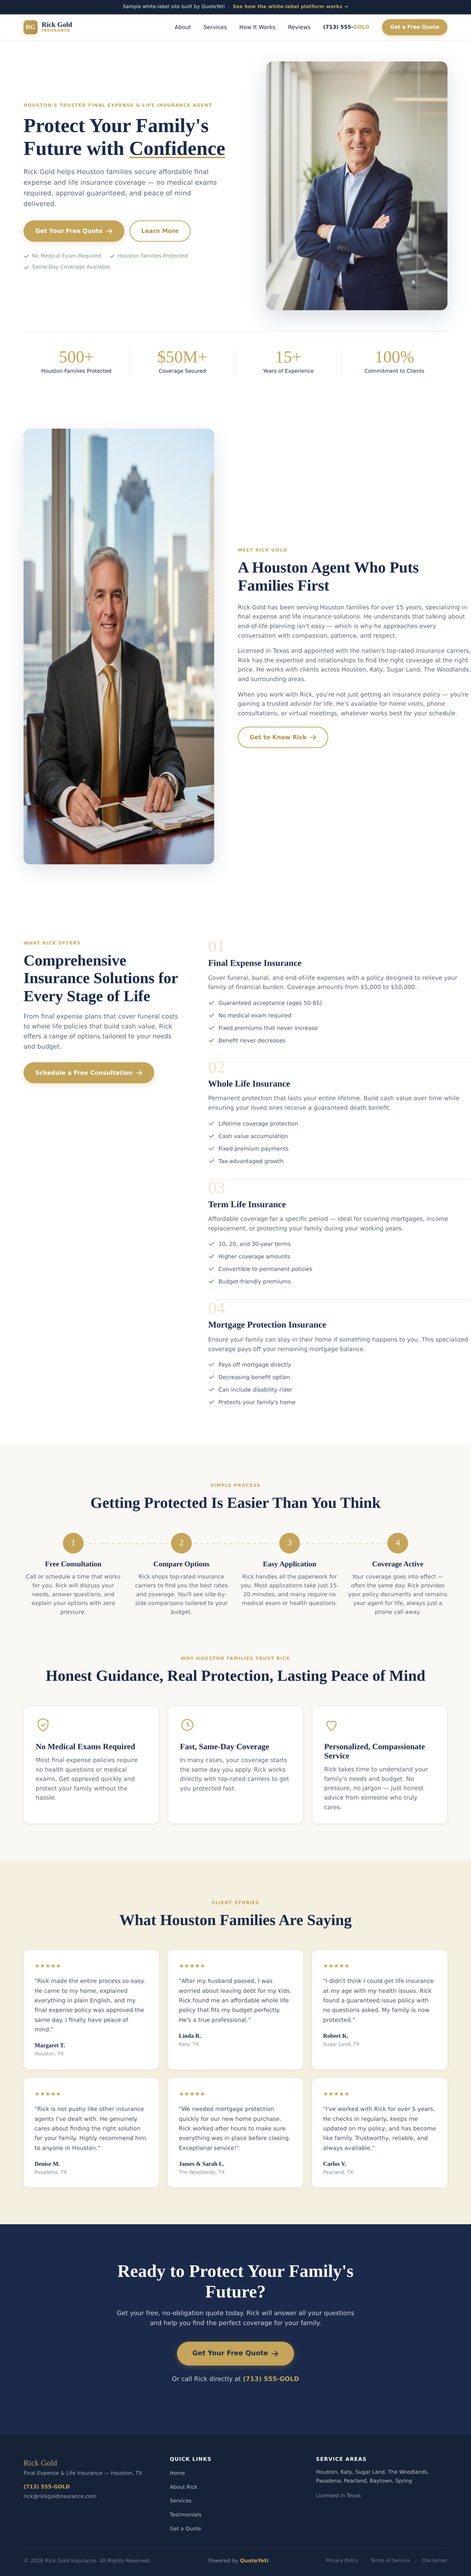
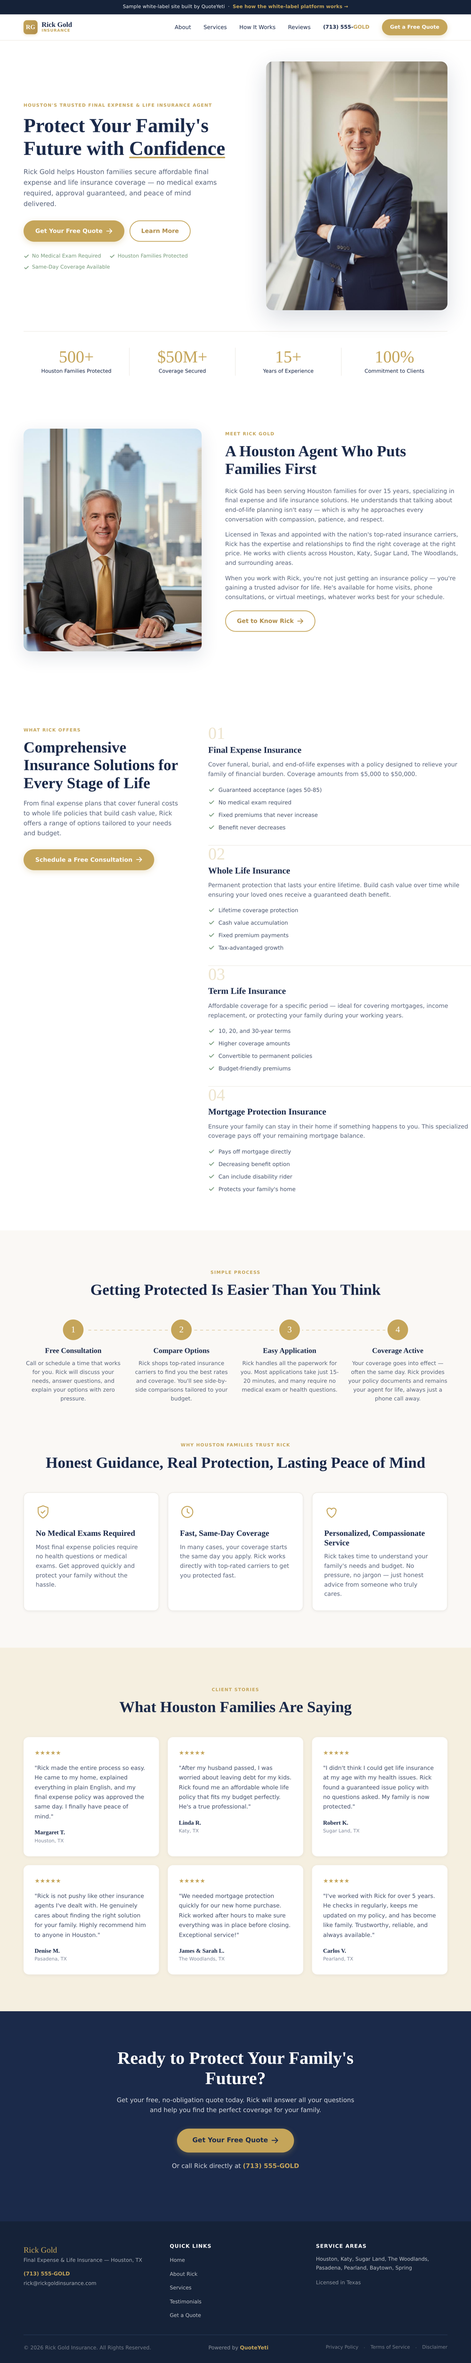
demo bug
image fix for demo

diff --git a/public/partner-network/demo/index.html b/public/partner-network/demo/index.html
@@ -140,12 +140,13 @@
 
   /* ---------- ABOUT ---------- */
   .about__grid { display: flex; flex-direction: column; gap: 40px; align-items: center; }
-  .about__img { width: 100%; border-radius: 18px; overflow: hidden; box-shadow: 0 16px 48px rgba(27,42,74,0.12); }
+  .about__img { width: 100%; border-radius: 18px; overflow: hidden; box-shadow: 0 16px 48px rgba(27,42,74,0.12); aspect-ratio: 4 / 3; }
+  .about__img img { width: 100%; height: 100%; object-fit: cover; object-position: center 25%; }
   .about__h2 { font-size: 32px; color: var(--navy); margin-bottom: 22px; }
   .about p { font-size: 16px; color: rgba(27,42,74,0.72); margin-bottom: 16px; }
   @media (min-width: 1024px) {
-    .about__grid { flex-direction: row; gap: 64px; }
-    .about__img { flex: 0 0 45%; }
+    .about__grid { flex-direction: row; gap: 64px; align-items: stretch; }
+    .about__img { flex: 0 0 42%; aspect-ratio: 4 / 5; }
     .about__text { flex: 0 0 55%; }
     .about__h2 { font-size: 42px; }
   }
